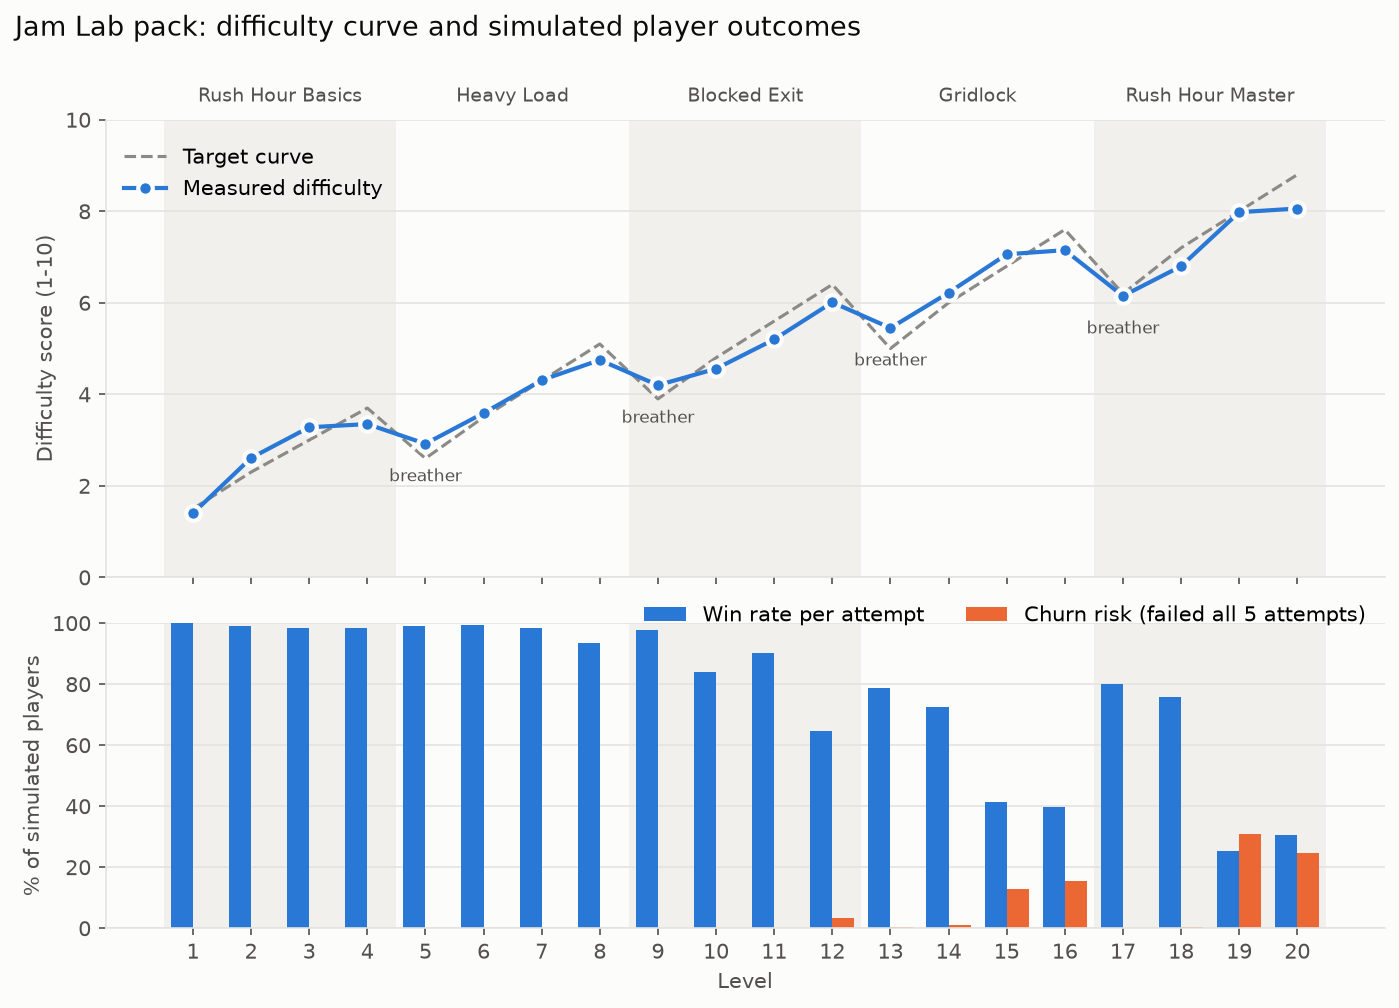
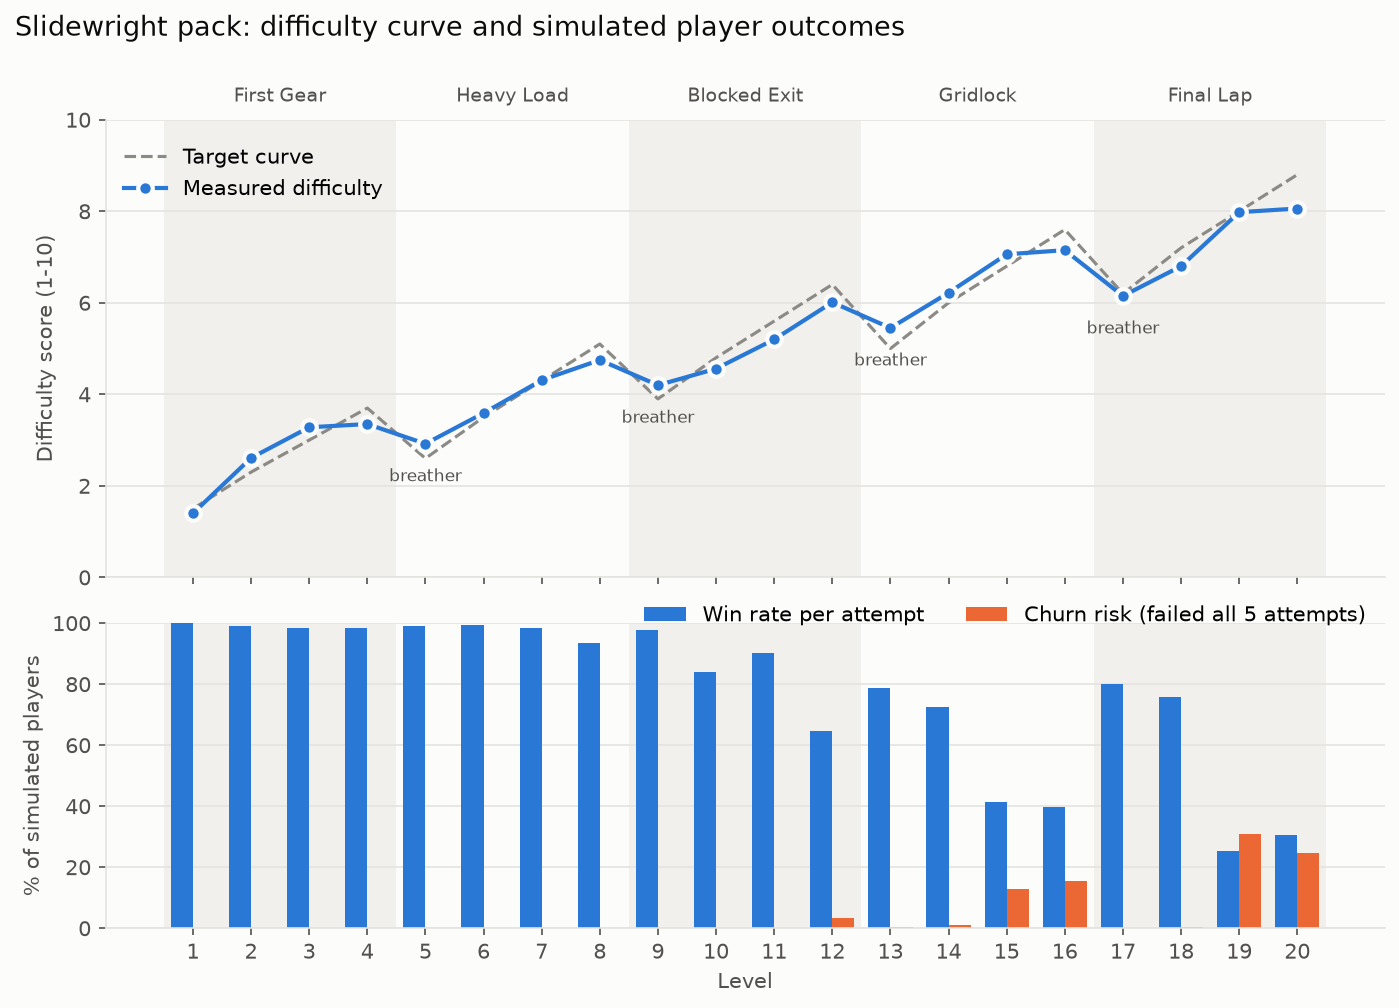
Rename project to Slidewright
Rename the CLI to slidewright.py and update the README, viewer, pack data,
chart and screenshots. Rename the "Rush Hour" chapters to First Gear and
Final Lap to avoid an existing game's name.

Changed region(s): [[0.0, 0.0, 0.6455, 0.0615], [0.7991, 0.0923, 0.9221, 0.123], [0.1537, 0.0923, 0.2459, 0.123]]

diff --git a/viewer.html b/viewer.html
@@ -3,7 +3,7 @@
 <head>
 <meta charset="utf-8">
 <meta name="viewport" content="width=device-width, initial-scale=1">
-<title>Jam Lab Viewer</title>
+<title>Slidewright Viewer</title>
 <style>
 :root {
   color-scheme: light;
@@ -113,14 +113,14 @@ main { display: grid; grid-template-columns: 240px minmax(0, 1fr) 340px; gap: 16
 </head>
 <body>
 <header>
-  <h1>Jam Lab</h1>
+  <h1>Slidewright</h1>
   <span class="pack" id="packName">no pack loaded</span>
   <span class="spacer"></span>
   <label class="btn">Load pack JSON<input type="file" id="file" accept=".json,application/json" hidden></label>
   <button id="themeBtn" title="Toggle light/dark">◐</button>
 </header>
 <main id="app">
-  <div id="empty">Loading… If nothing appears, run <code>python jamlab.py view</code> or drop a pack JSON (e.g. <code>output/pack.json</code>) onto this page.</div>
+  <div id="empty">Loading… If nothing appears, run <code>python slidewright.py view</code> or drop a pack JSON (e.g. <code>output/pack.json</code>) onto this page.</div>
 </main>
 <div id="drop">Drop a pack JSON to load it</div>
 <div id="tip"></div>
@@ -141,7 +141,7 @@ async function boot() {
     if (!r.ok) throw new Error(r.status);
     loadPack(await r.json(), src);
   } catch (e) {
-    $("#empty").innerHTML = `Couldn't fetch <code>${src}</code>. Click <b>Load pack JSON</b>, drop a file here, or serve the folder with <code>python jamlab.py view</code>.`;
+    $("#empty").innerHTML = `Couldn't fetch <code>${src}</code>. Click <b>Load pack JSON</b>, drop a file here, or serve the folder with <code>python slidewright.py view</code>.`;
   }
 }
 function loadPack(pack, label) {
@@ -406,7 +406,7 @@ function renderPanels() {
     stat("Avg attempts", p.avg_attempts ?? "–", "to clear"),
     stat("Churn risk", Math.round(p.churn_risk * 100) + "%", "fail all 5", p.churn_risk),
   ].join("") + `<div class="k" style="grid-column:1/-1;font-size:11px;color:var(--ink-3)">${p.players} simulated players · move limit ${p.move_limit}</div>`
-    : `<p style="color:var(--ink-3);margin:0">No playtest data (run <code>jamlab.py pack</code>).</p>`;
+    : `<p style="color:var(--ink-3);margin:0">No playtest data (run <code>slidewright.py pack</code>).</p>`;
   const n = e.note || {};
   $("#note").innerHTML = (n.why_it_works || n.what_it_teaches)
     ? `<p><b>Why it works</b>${esc(n.why_it_works)}</p><p><b>What it teaches</b>${esc(n.what_it_teaches)}</p>`

diff --git a/pack_builder.py b/pack_builder.py
@@ -34,7 +34,7 @@ class Chapter:
 
 
 CHAPTERS = [
-    Chapter("Rush Hour Basics", "Cars only: read the exit lane and clear it.",
+    Chapter("First Gear", "Cars only: read the exit lane and clear it.",
             [1.5, 2.3, 3.0, 3.7], (0, 0), (3, 7)),
     Chapter("Heavy Load", "Trucks appear: they need 3 free cells to clear a lane.",
             [2.6, 3.5, 4.3, 5.1], (1, 1), (5, 9)),
@@ -42,7 +42,7 @@ CHAPTERS = [
             [3.9, 4.8, 5.6, 6.4], (1, 2), (7, 11), exit_truck=True),
     Chapter("Gridlock", "Chains: the blockers are themselves blocked, often by trucks.",
             [5.0, 6.0, 6.8, 7.6], (2, 3), (9, 12), min_blockers=6),
-    Chapter("Rush Hour Master", "Everything combined on jammed boards.",
+    Chapter("Final Lap", "Everything combined on jammed boards.",
             [6.2, 7.2, 8.0, 8.8], (2, 4), (10, 13), exit_truck=True, min_blockers=8),
 ]
 
@@ -149,7 +149,7 @@ def build_pack(count: int = 20, seed: int = 2026, mode: str = "auto", players: i
     for e, gl in zip(entries, generated):
         e["note"] = gl.note
     return {
-        "name": "Jam Lab Pack",
+        "name": "Slidewright Pack",
         "created": dt.date.today().isoformat(),
         "seed": seed,
         "difficulty_weights": WEIGHTS,
@@ -204,7 +204,7 @@ def plot_curve(pack: dict, path: str | Path) -> None:
     ax1.set_ylim(0, 10)
     ax1.set_ylabel("Difficulty score (1-10)")
     ax1.legend(loc="upper left", frameon=False, bbox_to_anchor=(0, 0.98))
-    fig.suptitle("Jam Lab pack: difficulty curve and simulated player outcomes", x=0.07, ha="left",
+    fig.suptitle("Slidewright pack: difficulty curve and simulated player outcomes", x=0.07, ha="left",
                  fontsize=13, color=ink, y=0.98)
 
     w = 0.38

diff --git a/slidewright.py b/slidewright.py
@@ -1,11 +1,11 @@
-"""Jam Lab command-line interface.
+"""Slidewright command-line interface.
 
-  python jamlab.py solve levels/example.json
-  python jamlab.py analyze levels/example.json --playtest
-  python jamlab.py random --difficulty 5-7 --trucks 1-2 --min-moves 10 --count 3
-  python jamlab.py generate --brief "level 12, medium-hard, introduce trucks blocking the exit row, about 15 moves"
-  python jamlab.py pack --count 20
-  python jamlab.py view
+  python slidewright.py solve levels/example.json
+  python slidewright.py analyze levels/example.json --playtest
+  python slidewright.py random --difficulty 5-7 --trucks 1-2 --min-moves 10 --count 3
+  python slidewright.py generate --brief "level 12, medium-hard, introduce trucks blocking the exit row, about 15 moves"
+  python slidewright.py pack --count 20
+  python slidewright.py view
 """
 from __future__ import annotations
 
@@ -139,7 +139,7 @@ def cmd_view(a):
 
 
 def main(argv=None):
-    ap = argparse.ArgumentParser(prog="jamlab", description="AI-assisted level design for car-escape puzzles")
+    ap = argparse.ArgumentParser(prog="slidewright", description="AI-assisted level design for car-escape puzzles")
     sub = ap.add_subparsers(dest="cmd", required=True)
 
     s = sub.add_parser("solve", help="solve a level JSON")

diff --git a/solver.py b/solver.py
@@ -3,7 +3,7 @@
 Coordinates are zero-based: x grows to the right, y grows downwards. The exit
 sits on the right edge of row ``exit_row`` (row 2 zero-based = "row 3" for a
 human). A *move* is sliding one vehicle any number of free cells along its axis
-(the standard Rush Hour "slide" metric), so ``min_moves`` matches what a player
+(the standard sliding-block "slide" metric), so ``min_moves`` matches what a player
 counts on screen.
 """
 from __future__ import annotations

diff --git a/README.md b/README.md
@@ -1,12 +1,12 @@
-# Jam Lab
+# Slidewright
 
 **An AI-assisted level design tool for a mobile car-escape puzzle** (the sliding-block "get the red car out" genre).
 It generates 6×6 layouts with Claude or procedurally, proves each one is solvable, scores its difficulty from the
 structure of its state space, runs 200 simulated players on it, and assembles a 20-level pack along a designed
 difficulty curve. A single-file HTML viewer lets you play every level, read its numbers and watch the optimal solution.
 
-**▶ [Play the 20-level pack in your browser](https://erenyagmur.github.io/jam-lab/viewer.html)**, or see the
-[Claude design-session levels](https://erenyagmur.github.io/jam-lab/viewer.html?pack=output/claude_session/pack.json).
+**▶ [Play the 20-level pack in your browser](https://erenyagmur.github.io/slidewright/viewer.html)**, or see the
+[Claude design-session levels](https://erenyagmur.github.io/slidewright/viewer.html?pack=output/claude_session/pack.json).
 
 ![Viewer: level 16, solution step 6 of 15](docs/viewer_light.png)
 
@@ -14,9 +14,9 @@ difficulty curve. A single-file HTML viewer lets you play every level, read its 
 
 A live puzzle game ships levels every week, and its retention depends on getting the difficulty curve right: one
 spike that's too hard and players churn, one stretch that's too flat and they get bored. Live teams track **win
-rate, attempts per level and churn after a level** for exactly this reason. Jam Lab moves that loop *before* launch:
+rate, attempts per level and churn after a level** for exactly this reason. Slidewright moves that loop *before* launch:
 
-| Live-ops question | What Jam Lab gives you before shipping |
+| Live-ops question | What Slidewright gives you before shipping |
 |---|---|
 | Is the level even beatable? Is there a shortcut? | BFS solver: solvable yes/no, exact minimum moves, the optimal line |
 | How hard is it? | A 1–10 score from five structural metrics, with a published formula |
@@ -37,7 +37,7 @@ generator.py       procedural generator with constraints (difficulty, trucks, mo
 ai_generator.py    Claude pipeline: brief -> spec -> variants -> solver check -> feedback -> notes
 designer_session.py  the same validation loop driven by round files (no API key needed)
 pack_builder.py    20-level pack along a sawtooth curve + matplotlib chart
-jamlab.py          CLI
+slidewright.py          CLI
 viewer.html        single-file viewer: play, metrics, designer note, animated solution
 tests/             pytest: move rules, solver, metrics, playtest, generator, AI loop (mocked API)
 levels/            example level JSON
@@ -55,25 +55,25 @@ python -m pytest
 ```
 
 ```bash
-python jamlab.py pack --count 20
+python slidewright.py pack --count 20
 ```
 
 ```bash
-python jamlab.py view
+python slidewright.py view
 ```
 
 Other commands:
 
 ```bash
-python jamlab.py solve levels/example.json
-python jamlab.py analyze levels/example.json --playtest
-python jamlab.py random --difficulty 5-7 --trucks 1-2 --min-moves 10 --exit-truck --count 3
-python jamlab.py generate --brief "level 12, medium-hard, introduce trucks blocking the exit row, about 15 moves"
+python slidewright.py solve levels/example.json
+python slidewright.py analyze levels/example.json --playtest
+python slidewright.py random --difficulty 5-7 --trucks 1-2 --min-moves 10 --exit-truck --count 3
+python slidewright.py generate --brief "level 12, medium-hard, introduce trucks blocking the exit row, about 15 moves"
 ```
 
 Set `ANTHROPIC_API_KEY` to use Claude for `generate` and `pack` (`--mode ai|procedural|auto`, default `auto`).
 Without a key, both commands fall back to the procedural generator and template designer notes, so everything
-still runs. `viewer.html` loads `output/pack.json` when served (`jamlab.py view`); when you open it straight from disk,
+still runs. `viewer.html` loads `output/pack.json` when served (`slidewright.py view`); when you open it straight from disk,
 use **Load pack JSON** or drag a file onto the page.
 
 ## Game rules and level format
@@ -188,12 +188,12 @@ brief ─► Claude: spec (difficulty band, target moves, trucks, mechanic)     
 
 #### The same loop without an API key: a recorded design session
 `designer_session.py` runs the pipeline on files instead of API calls. Each round of proposed layouts is a JSON
-file. `jamlab.py check` runs **exactly the same `check_variant` / `feedback_text` code** the API path uses, then
-`jamlab.py finalize` adds playtests and designer notes:
+file. `slidewright.py check` runs **exactly the same `check_variant` / `feedback_text` code** the API path uses, then
+`slidewright.py finalize` adds playtests and designer notes:
 
 ```bash
-python jamlab.py check --session output/claude_session --variants output/claude_session/round1.json
-python jamlab.py finalize --session output/claude_session
+python slidewright.py check --session output/claude_session --variants output/claude_session/round1.json
+python slidewright.py finalize --session output/claude_session
 ```
 
 [`output/claude_session/`](output/claude_session/session_log.md) is a real session for the brief *"level 12,
@@ -222,11 +222,11 @@ breather after the previous chapter's peak:
 
 | Chapter | Mechanic introduced | Targets |
 |---|---|---|
-| Rush Hour Basics | cars only: read the exit lane | 1.5 → 3.7 |
+| First Gear | cars only: read the exit lane | 1.5 → 3.7 |
 | Heavy Load | trucks (need 3 free cells) | 2.6 → 5.1 |
 | Blocked Exit | a vertical truck crossing the exit row | 3.9 → 6.4 |
 | Gridlock | chains: blockers that are themselves blocked | 5.0 → 7.6 |
-| Rush Hour Master | everything, on jammed boards | 6.2 → 8.8 |
+| Final Lap | everything, on jammed boards | 6.2 → 8.8 |
 
 ![Difficulty curve](output/difficulty_curve.png)
 
@@ -249,7 +249,7 @@ designer would review those first, either by adding a breather or by softening t
 ## Example output
 
 ```
-$ python jamlab.py analyze levels/example.json --playtest
+$ python slidewright.py analyze levels/example.json --playtest
 ..AFFF
 ..A.C.
 RRA.C.  <- exit
@@ -271,7 +271,7 @@ DD.BEE
 ```
 
 ```
-$ python jamlab.py generate --brief "level 12, medium-hard, introduce trucks blocking the exit row, about 15 moves"
+$ python slidewright.py generate --brief "level 12, medium-hard, introduce trucks blocking the exit row, about 15 moves"
 [ai] ANTHROPIC_API_KEY is not set -> falling back to the procedural generator
 [procedural] constraints: difficulty 5.5-7.0, moves 12-18, trucks 1-3, vehicles 8-12, exit-row truck
 
@@ -286,12 +286,12 @@ solution: R→1 B→1 D←2 F↓2 G←2 A↑2 H→2 E→2 I↑3 C←1 E←2 H←
 ```
 
 ```
-$ python jamlab.py pack --count 20
-[pack] 01 · Rush Hour Basics        intro    target  1.5  got   1.4  moves  1  win 100%  churn 0%
+$ python slidewright.py pack --count 20
+[pack] 01 · First Gear              intro    target  1.5  got   1.4  moves  1  win 100%  churn 0%
 [pack] 05 · Heavy Load              breather target  2.6  got  2.92  moves  3  win 99%  churn 0%
 [pack] 12 · Blocked Exit            peak     target  6.4  got  6.01  moves 10  win 64%  churn 4%
 [pack] 16 · Gridlock                peak     target  7.6  got  7.15  moves 15  win 40%  churn 16%
-[pack] 19 · Rush Hour Master        build    target  8.0  got  7.98  moves 22  win 25%  churn 31%
+[pack] 19 · Final Lap               build    target  8.0  got  7.98  moves 22  win 25%  churn 31%
 ...
 ```
 
